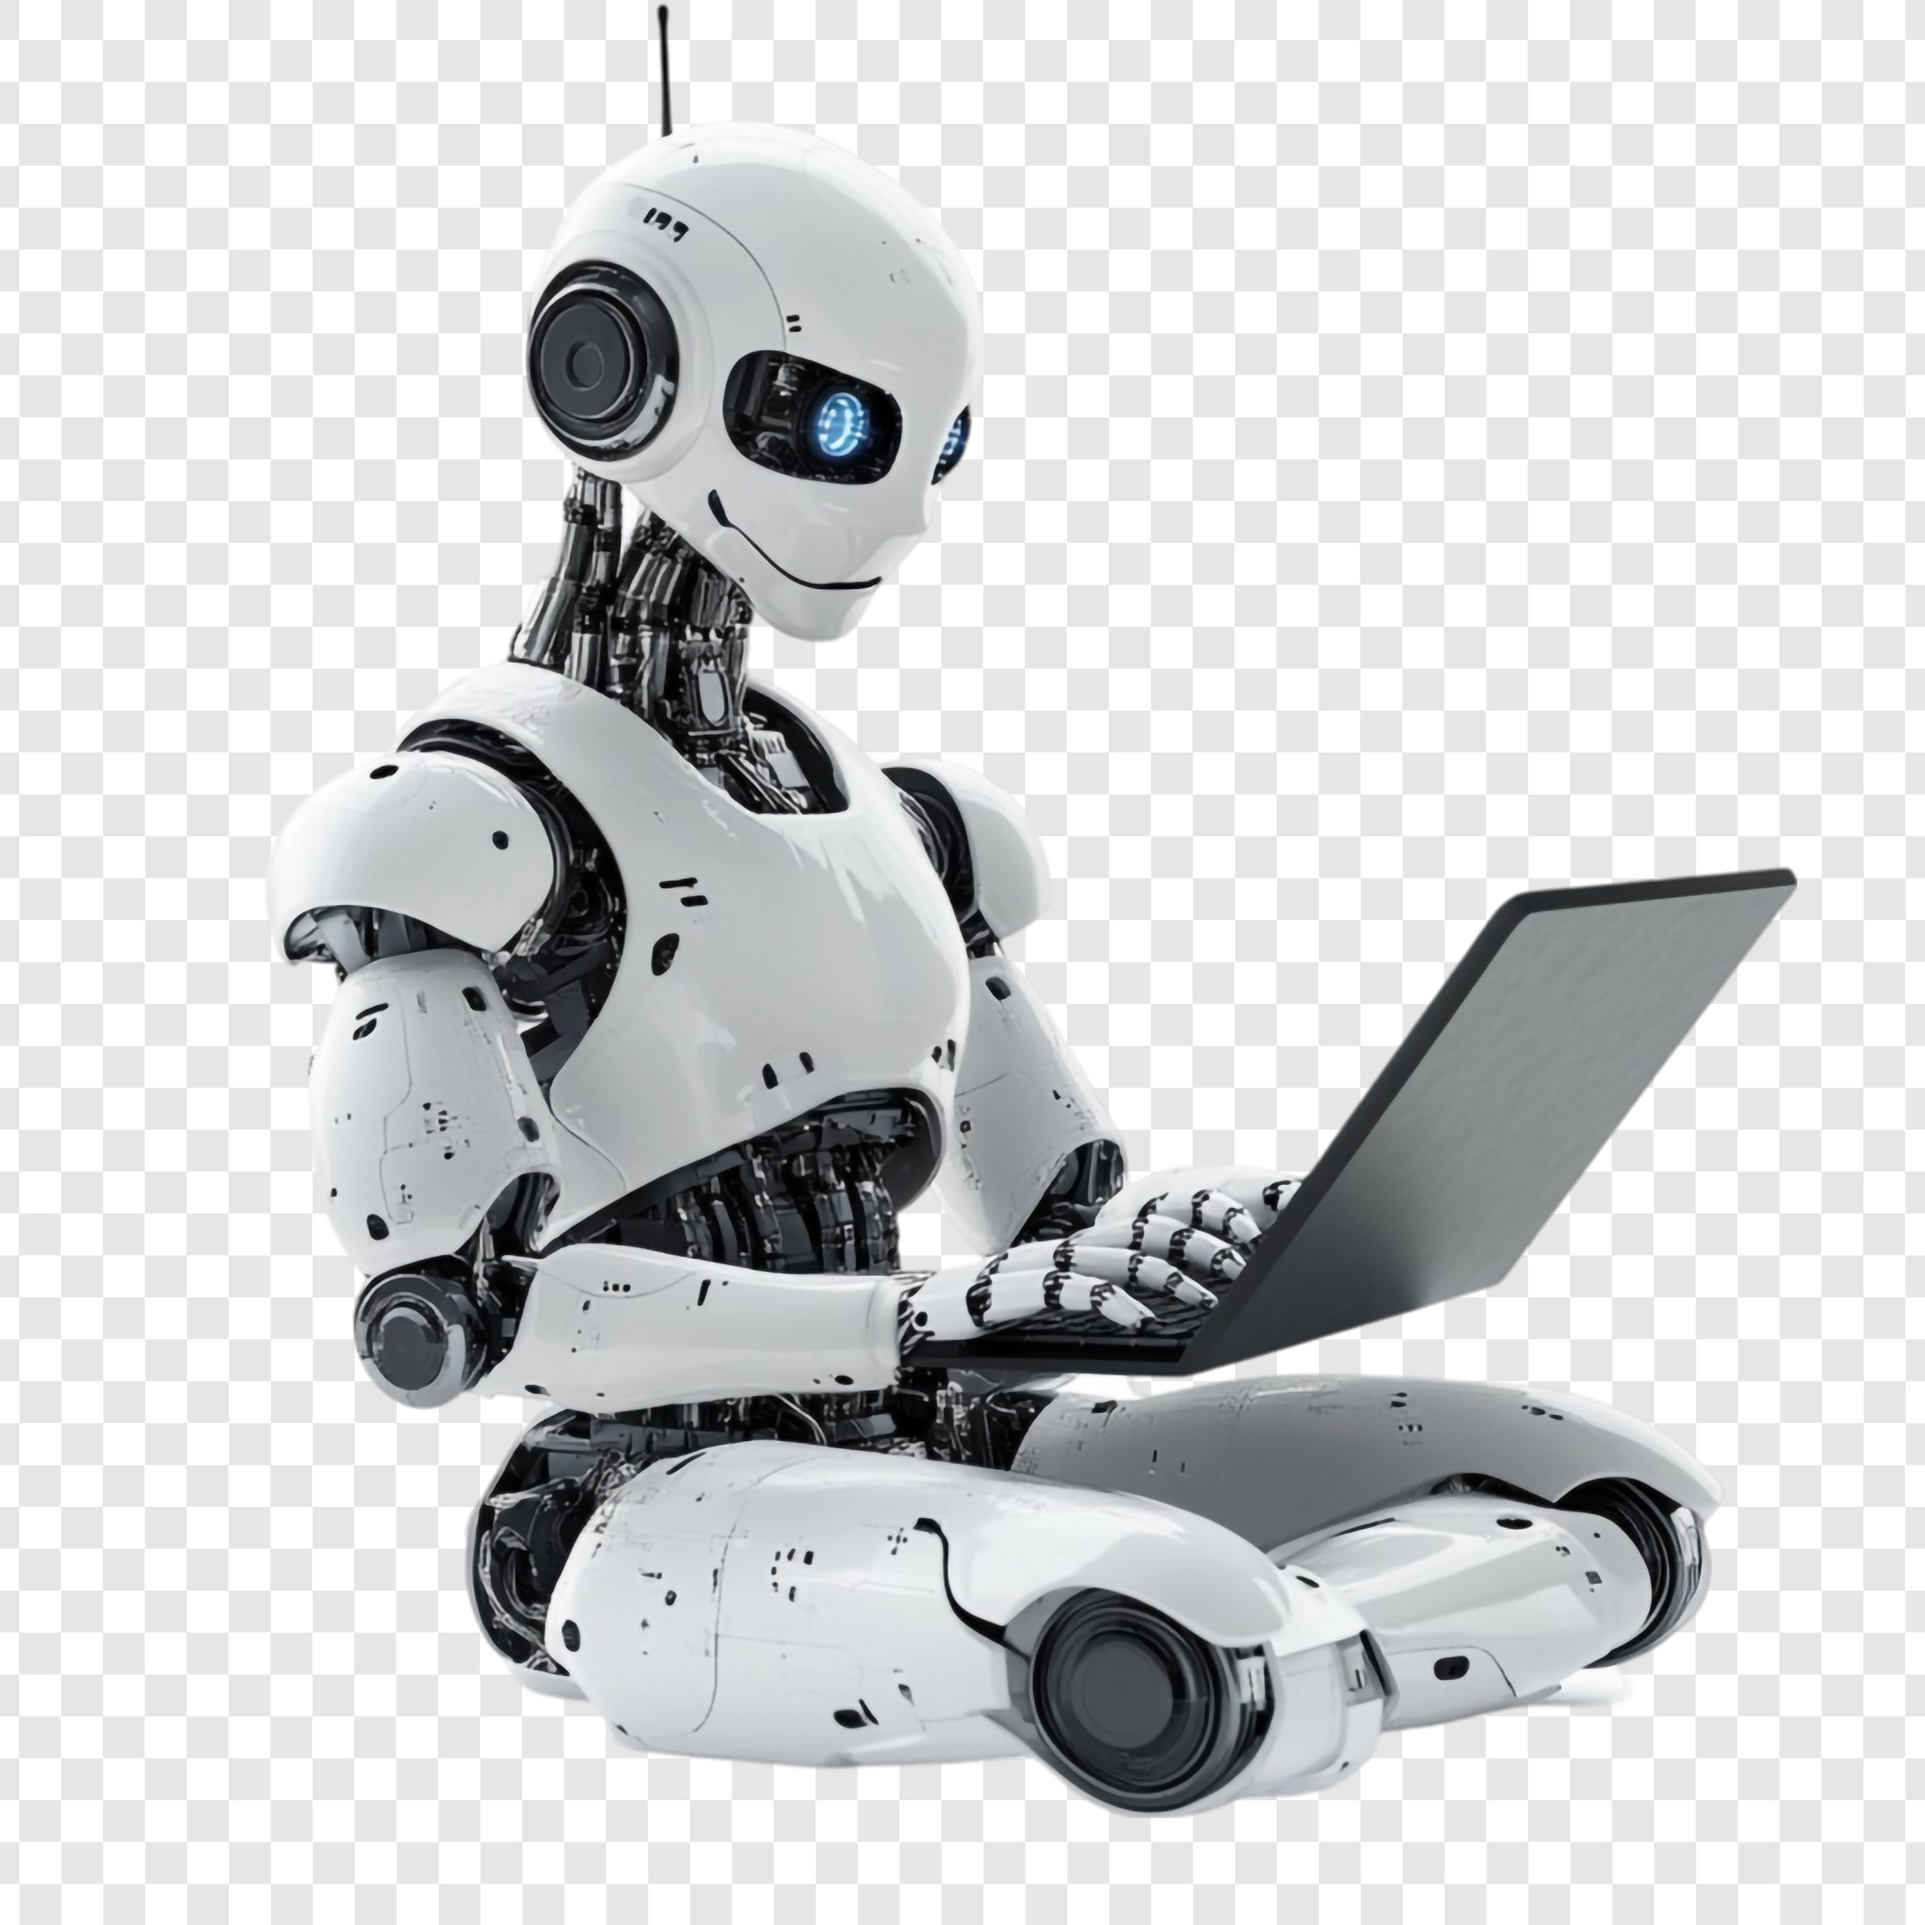
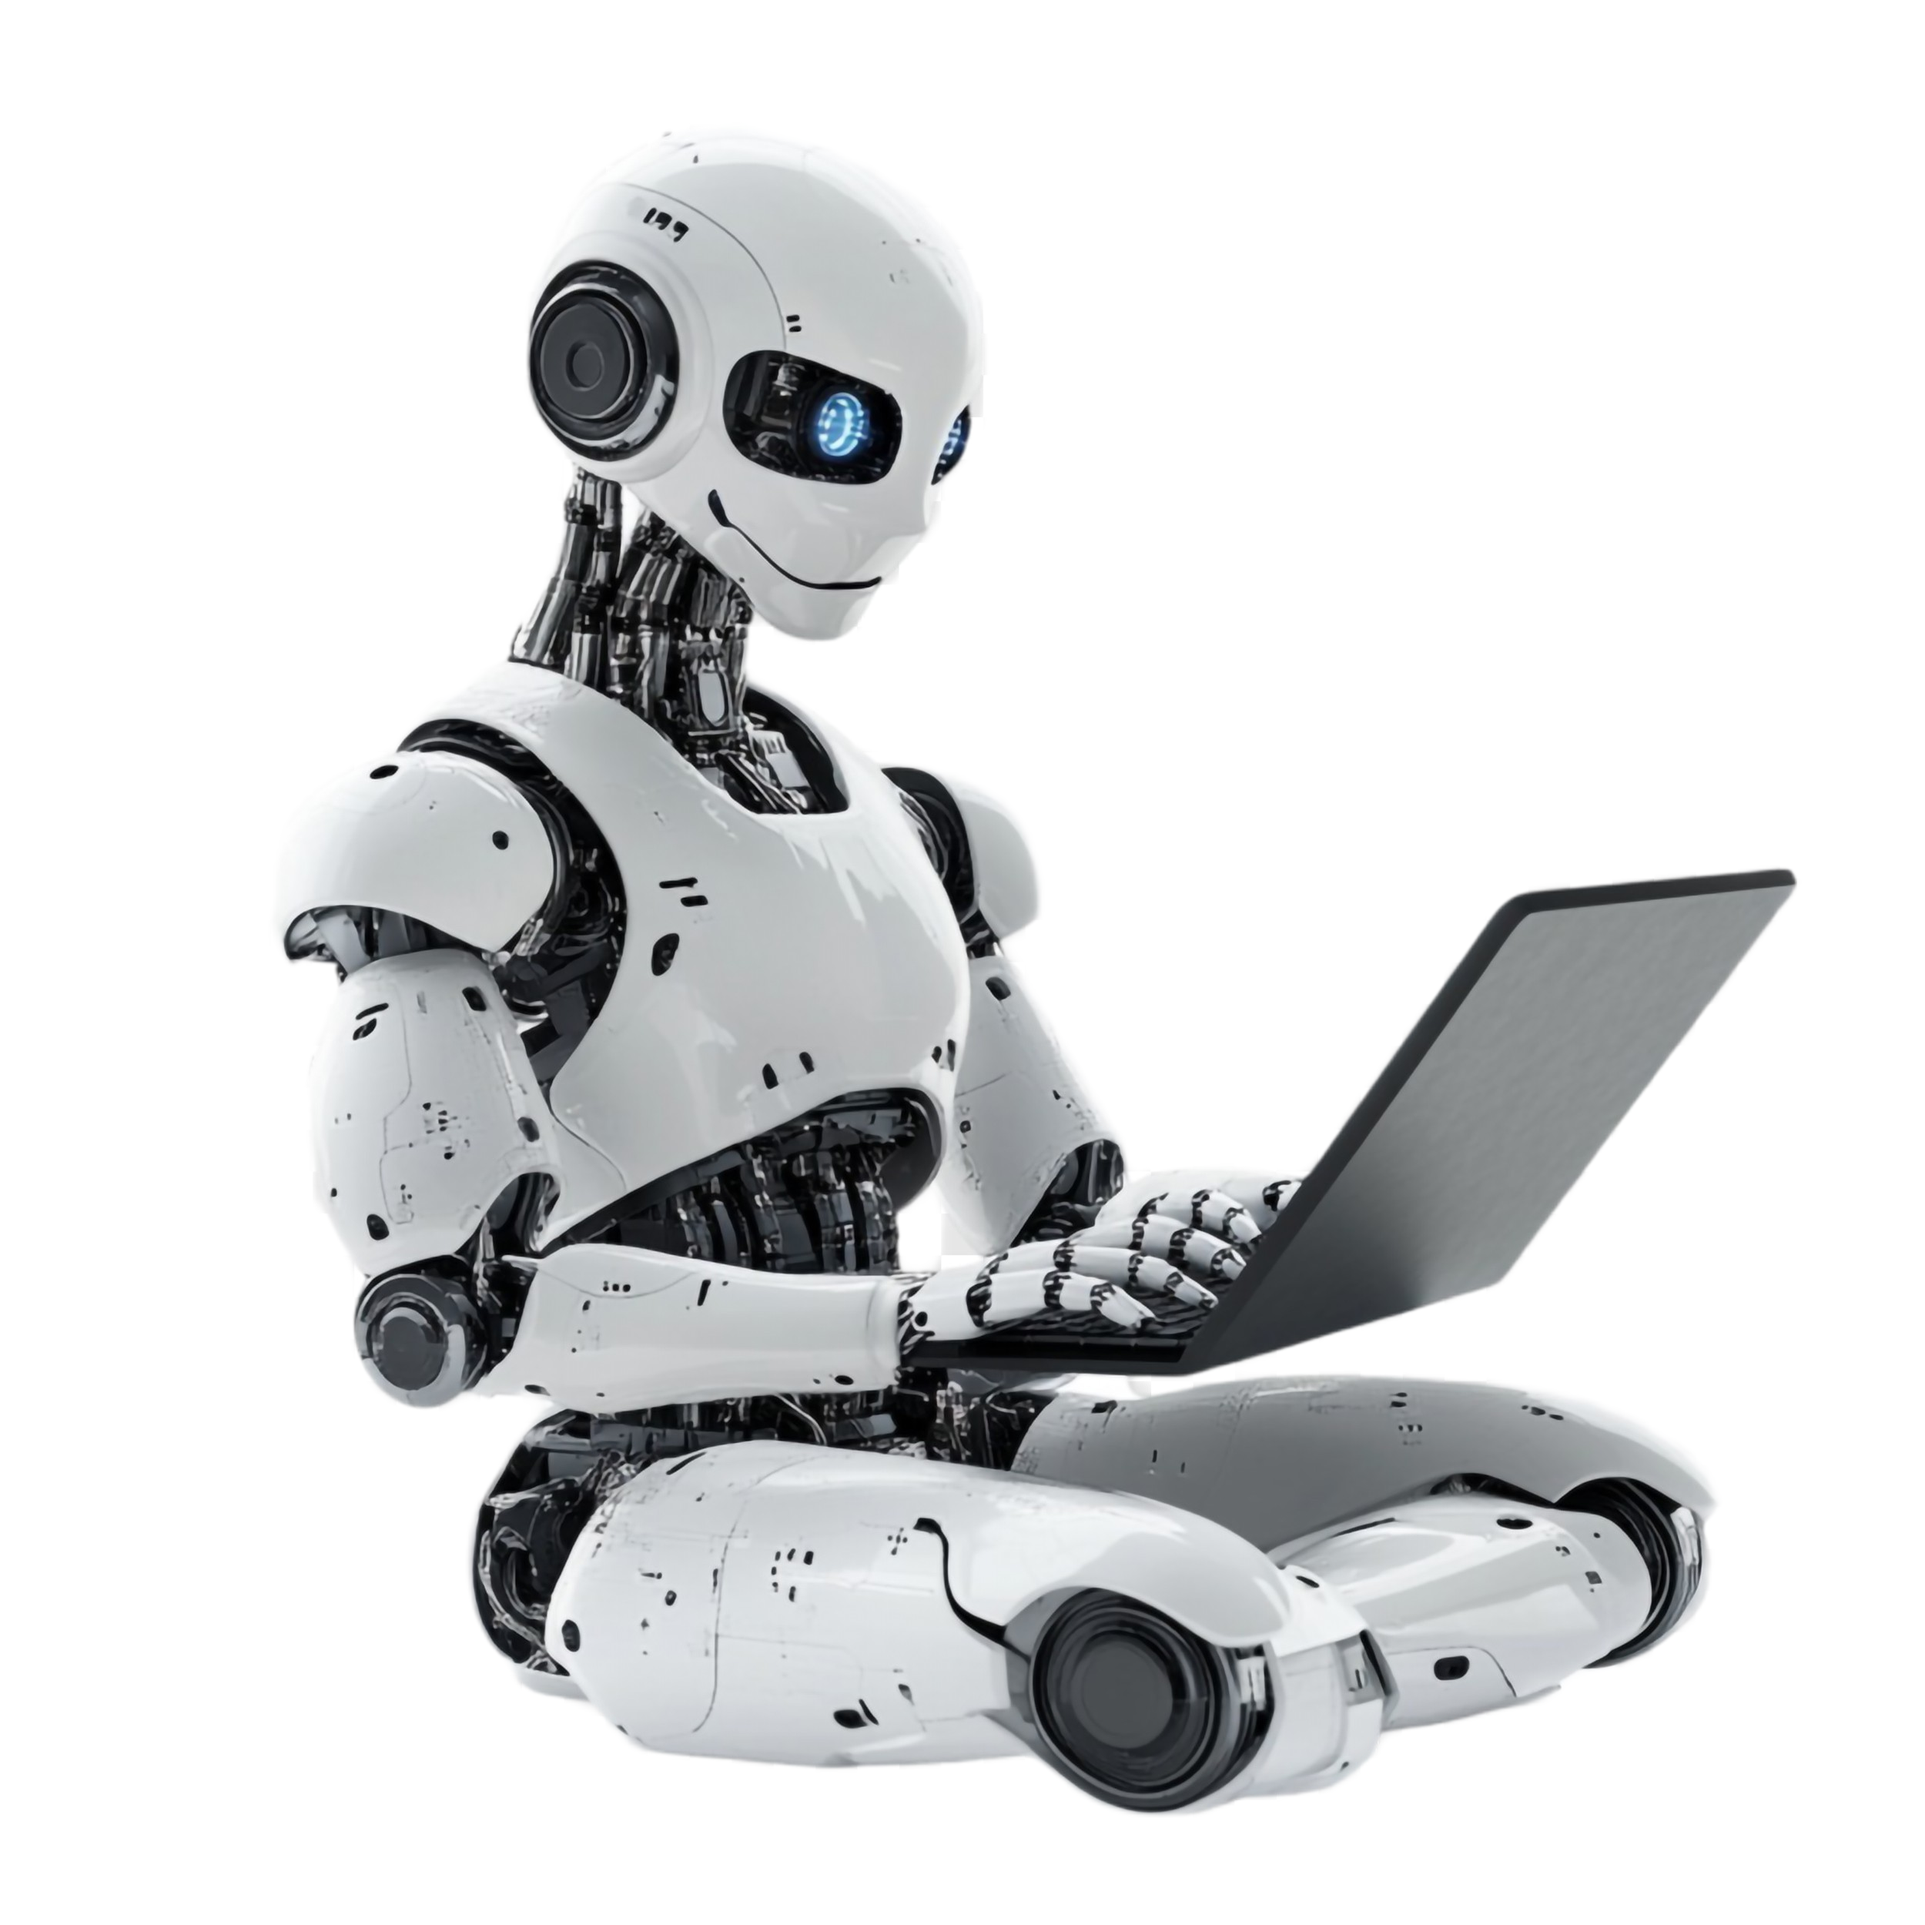
Add files via upload

Changed region(s): [[0.0, 0.0, 1.0, 1.0], [0.468, 0.624, 0.4992, 0.6552]]

diff --git a/index.html b/index.html
@@ -26,7 +26,7 @@
             margin-top: 50px;
         }
         img.icon {
-            width: 80px;
+            width: 200px;
             height: auto;
         }
         img.qr {
@@ -122,9 +122,9 @@
 
     <!-- Zona de imágenes de convivencia -->
     <div class="image-grid">
-        <img src="convivencia1.jpg" alt="Norma 1">
-        <img src="convivencia2.jpg" alt="Norma 2">
-        <img src="convivencia3.jpg" alt="Norma 3">
+        <img src="convivencia1.jpeg" alt="Norma 1">
+        <img src="convivencia2.jpeg" alt="Norma 2">
+        <img src="convivencia3.jpeg" alt="Norma 3">
         <img src="" alt="">
         <img src="" alt="">
         <img src="" alt="">
